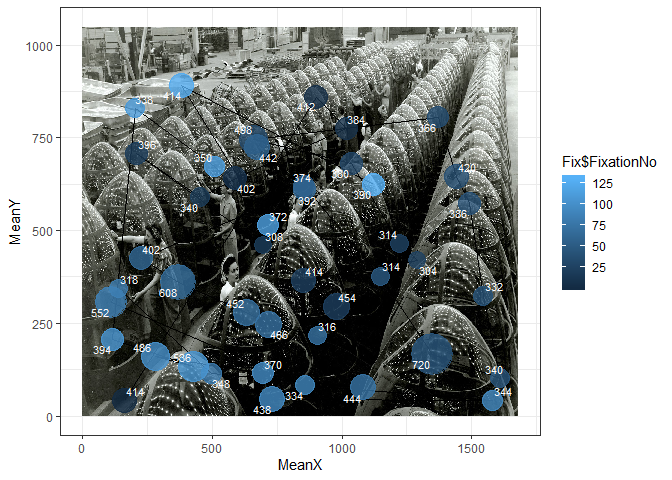
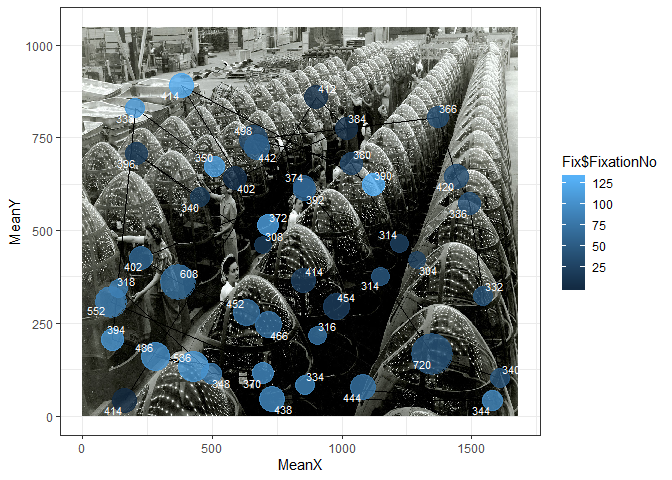
Final edits

diff --git a/Data_analysis.md b/Data_analysis.md
@@ -1,0 +1,290 @@
+``` r
+#Samples <- read_csv("Exported_EyeLink_data/Samples_merged.csv") %>% 
+ # mutate(GazeY = 1051-GazeY, Fix_MeanY = 1051-Fix_MeanY) %>% 
+  #filter(Time<=41202)
+
+Samples <- read_csv("Exported_EyeLink_data/Samples_merged.csv", col_types = cols(ParticipantID = col_character(), ParticipantGender = col_character(), EyeTracked = col_character(), Task = col_character(), SearchOrder = col_double(), ForagingType = col_character(), Trial = col_double(), Stimulus = col_character(), Video = col_character(), Time = col_double(), GazeX = col_double(), GazeY = col_double(), PupilSize = col_double(), FixationNo = col_double(), Fix_StartTime = col_double(), Fix_EndTime = col_double(), Fix_Duration = col_double(), Fix_MeanX = col_double(), Fix_MeanY = col_double(), Fix_MeanPupilSize = col_double(), SaccadeNo = col_double(), Sac_StartTime = col_double(), Sac_EndTime = col_double(), Sac_Duration = col_double(), Sac_StartX = col_double(), Sac_StartY = col_double(), Sac_EndX = col_double(), Sac_EndY = col_double(), Sac_PeakVelocity = col_double(), Sac_MeanVelocity = col_double(), Sac_Blink = col_logical(), Sac_Direction = col_character(), Sac_Amplitude = col_double()))
+```
+
+With gaussian we are undermining the tales. With the lognomial it’s not
+really better
+
+Conclusions: We tried to build a model that make conceptual sense. In
+which ways are the model failing us. We compared it with a gaussian
+model. Does it make sense to use a log model? We find that there are
+longer saccade amplitude. This means a specific amount of degrees. We
+looked at the general distributions of the data. 0.5% R2m variance is
+explained. If we know the participants then 2.7%. The model can capture
+the general difference between conditions but it fails as capturing the
+single saccades. Some are exploratoty and some exploit.
+
+Scan path
+
+``` r
+## Here I am making the scanpath for one participant in one trial
+x = subset(Samples, ParticipantID ==    'F7_2' & Trial == 10)
+
+## Let's make a summary dataset
+Fix <- x[!is.na(x$FixationNo),] %>% 
+  group_by(FixationNo) %>% # since I only have one participant and one trial
+  summarize(MeanX = Fix_MeanX[1], MeanY = Fix_MeanY[1], Duration = Fix_Duration[1]) %>% 
+  filter(Duration>=300) # only keep fixations > 300 ms because the other don't make sense cognitively
+
+img <- jpeg::readJPEG('stimuli_Foraging/space_capsules.jpg')  
+img <- grid::rasterGrob(img, width=unit(1, "npc"), height = unit(1,"npc"),
+                        interpolate = FALSE)
+ggplot(Fix, aes(MeanX, MeanY, color = Fix$FixationNo)) + 
+  annotation_custom(img, xmin = 0, xmax = 1680, ymin = 0, ymax = 1050) +
+  geom_path(color = "black") +
+  geom_point(size = Fix$Duration*.02, alpha = .8, fill = "NA") +
+  ggrepel::geom_text_repel(aes(label = Fix$Duration), size = 3, color = "white") +
+  xlim(0,1680) + ylim(0,1050)
+```
+
+![](Data_analysis_files/figure-markdown_github/unnamed-chunk-2-1.png)
+
+``` r
+#Social Engagement task
+#We will look for differences in pupil size in engagement vs. observatonal only stimuli
+
+## Subsetting the Social Engagement experiment
+x = subset(Samples, Task == "SocialEngagement", !is.na(PupilSize))
+#We take an average pupilsize for each fixation
+
+#We make the video column into multiple columns
+x <- separate(x, Video, c("Gender", NA, NA, "Orientation", "Ostensive"), remove = FALSE, sep = "_")
+
+#We now group by participants and 
+x <- x %>% group_by(Fix_MeanPupilSize, Trial, FixationNo, ParticipantID, Orientation, Ostensive, Gender) %>% 
+  summarize(PupilSize = mean(PupilSize))
+
+#We model
+model <- glmer(PupilSize ~ 1 +  Orientation * Ostensive +
+        (1 + Orientation * Ostensive | ParticipantID), data = x, family = gaussian(link=log))
+```
+
+    ## boundary (singular) fit: see ?isSingular
+
+``` r
+summary(model) #We use log because we believe it will reflect the data better. 
+```
+
+    ## Generalized linear mixed model fit by maximum likelihood (Laplace
+    ##   Approximation) [glmerMod]
+    ##  Family: gaussian  ( log )
+    ## Formula: PupilSize ~ 1 + Orientation * Ostensive + (1 + Orientation *  
+    ##     Ostensive | ParticipantID)
+    ##    Data: x
+    ## 
+    ##      AIC      BIC   logLik deviance df.resid 
+    ##   8748.0   8813.6  -4359.0   8718.0      572 
+    ## 
+    ## Scaled residuals: 
+    ##     Min      1Q  Median      3Q     Max 
+    ## -3.3555 -0.5137  0.1267  0.6528  2.4023 
+    ## 
+    ## Random effects:
+    ##  Groups        Name                       Variance Std.Dev. Corr             
+    ##  ParticipantID (Intercept)                  1662.7  40.776                   
+    ##                Orientationdiv                189.1  13.750  -0.46            
+    ##                Ostensive+o                    63.0   7.937  -0.38  0.38      
+    ##                Orientationdiv:Ostensive+o    166.3  12.895   0.30 -0.97 -0.20
+    ##  Residual                                 100691.9 317.320                   
+    ## Number of obs: 587, groups:  ParticipantID, 6
+    ## 
+    ## Fixed effects:
+    ##                             Estimate Std. Error t value Pr(>|z|)    
+    ## (Intercept)                 8.789286   0.052495 167.430   <2e-16 ***
+    ## Orientationdiv             -0.036199   0.017712  -2.044    0.041 *  
+    ## Ostensive+o                -0.006153   0.010913  -0.564    0.573    
+    ## Orientationdiv:Ostensive+o  0.012560   0.017854   0.704    0.482    
+    ## ---
+    ## Signif. codes:  0 '***' 0.001 '**' 0.01 '*' 0.05 '.' 0.1 ' ' 1
+    ## 
+    ## Correlation of Fixed Effects:
+    ##             (Intr) Ornttn Ostns+
+    ## Orientatndv -0.460              
+    ## Ostensive+o -0.363  0.370       
+    ## Ornttndv:O+  0.288 -0.917 -0.302
+    ## convergence code: 0
+    ## boundary (singular) fit: see ?isSingular
+
+``` r
+#Here we get no significant interaction so we model again without
+model <- glmer(PupilSize ~ 1 +  Orientation + Ostensive +
+        (1 + Orientation + Ostensive | ParticipantID), data = x, family = gaussian(link=log))
+summary(model)
+```
+
+    ## Generalized linear mixed model fit by maximum likelihood (Laplace
+    ##   Approximation) [glmerMod]
+    ##  Family: gaussian  ( log )
+    ## Formula: PupilSize ~ 1 + Orientation + Ostensive + (1 + Orientation +  
+    ##     Ostensive | ParticipantID)
+    ##    Data: x
+    ## 
+    ##      AIC      BIC   logLik deviance df.resid 
+    ##   8764.6   8808.4  -4372.3   8744.6      577 
+    ## 
+    ## Scaled residuals: 
+    ##     Min      1Q  Median      3Q     Max 
+    ## -3.6589 -0.5265  0.0936  0.6507  2.7538 
+    ## 
+    ## Random effects:
+    ##  Groups        Name           Variance  Std.Dev. Corr       
+    ##  ParticipantID (Intercept)      1643.03  40.534             
+    ##                Orientationdiv     65.45   8.090  -0.45      
+    ##                Ostensive+o        77.42   8.799  -0.15 -0.18
+    ##  Residual                     105952.03 325.503             
+    ## Number of obs: 587, groups:  ParticipantID, 6
+    ## 
+    ## Fixed effects:
+    ##                  Estimate Std. Error t value Pr(>|z|)    
+    ## (Intercept)     8.7860548  0.0508384 172.823  < 2e-16 ***
+    ## Orientationdiv -0.0300615  0.0101466  -2.963  0.00305 ** 
+    ## Ostensive+o    -0.0003226  0.0110354  -0.029  0.97668    
+    ## ---
+    ## Signif. codes:  0 '***' 0.001 '**' 0.01 '*' 0.05 '.' 0.1 ' ' 1
+    ## 
+    ## Correlation of Fixed Effects:
+    ##             (Intr) Ornttn
+    ## Orientatndv -0.450       
+    ## Ostensive+o -0.146 -0.176
+
+``` r
+x$Ostensive <- as.factor(x$Ostensive)
+x$Ostensive <- relevel(x$Ostensive, ref = "+o")
+
+model <- glmer(PupilSize ~ 1 +  Orientation + Ostensive +
+        (1 + Orientation + Ostensive | ParticipantID), data = x, family = gaussian(link=log))
+```
+
+    ## boundary (singular) fit: see ?isSingular
+
+``` r
+summary(model)
+```
+
+    ## Generalized linear mixed model fit by maximum likelihood (Laplace
+    ##   Approximation) [glmerMod]
+    ##  Family: gaussian  ( log )
+    ## Formula: PupilSize ~ 1 + Orientation + Ostensive + (1 + Orientation +  
+    ##     Ostensive | ParticipantID)
+    ##    Data: x
+    ## 
+    ##      AIC      BIC   logLik deviance df.resid 
+    ##   8714.6   8758.4  -4347.3   8694.6      577 
+    ## 
+    ## Scaled residuals: 
+    ##     Min      1Q  Median      3Q     Max 
+    ## -3.5736 -0.5922  0.0980  0.6413  2.7247 
+    ## 
+    ## Random effects:
+    ##  Groups        Name           Variance  Std.Dev. Corr       
+    ##  ParticipantID (Intercept)      4065.00  63.757             
+    ##                Orientationdiv     15.24   3.904  -0.41      
+    ##                Ostensive-o       814.28  28.536   0.81  0.20
+    ##  Residual                     110274.99 332.077             
+    ## Number of obs: 587, groups:  ParticipantID, 6
+    ## 
+    ## Fixed effects:
+    ##                 Estimate Std. Error t value Pr(>|z|)    
+    ## (Intercept)     8.831014   0.104753  84.303  < 2e-16 ***
+    ## Orientationdiv -0.032936   0.006971  -4.725  2.3e-06 ***
+    ## Ostensive-o     0.006929   0.044351   0.156    0.876    
+    ## ---
+    ## Signif. codes:  0 '***' 0.001 '**' 0.01 '*' 0.05 '.' 0.1 ' ' 1
+    ## 
+    ## Correlation of Fixed Effects:
+    ##             (Intr) Ornttn
+    ## Orientatndv -0.473       
+    ## Ostensive-o  0.877 -0.126
+    ## convergence code: 0
+    ## boundary (singular) fit: see ?isSingular
+
+``` r
+#We get a significant effect of the diverted orientation. When doing it with link = identity we do not get anything significant. 
+
+#We need to plot it
+ggplot(x, aes(FixationNo, PupilSize, color = Orientation)) + geom_smooth(method = "lm") + ggtitle("Average Pupil Size for all participants across fixations")
+```
+
+![](Data_analysis_files/figure-markdown_github/Analysis%20for%20Assignment%201%20Social%20Engagement-1.png)
+
+``` r
+#We plot with participant ID as well
+ggplot(x, aes(FixationNo, PupilSize, color = ParticipantID, fill = Orientation)) + geom_smooth(method = "lm", se = F, aes(linetype=Orientation)) + ggtitle("Pupil Size according to fixations in the direct and diverted condition")
+```
+
+![](Data_analysis_files/figure-markdown_github/Analysis%20for%20Assignment%201%20Social%20Engagement-2.png)
+
+``` r
+## Subsetting the Forarging experiment
+x = subset(Samples, Task == "Foraging", !is.na(SaccadeNo))
+
+x <- x %>% group_by(ParticipantID, Stimulus, ForagingType, SaccadeNo) %>% summarise(Saccade_Amplitude = mean(Sac_Amplitude, na.rm = TRUE))
+
+#We model
+sac_ampl_gaus <- glmer(Saccade_Amplitude ~ 1 + ForagingType + 
+        (1 + ForagingType | ParticipantID) +  
+        (1 + ForagingType | Stimulus), data = x, family = gaussian(link=log))
+```
+
+    ## boundary (singular) fit: see ?isSingular
+
+``` r
+summary(sac_ampl_gaus)
+```
+
+    ## Generalized linear mixed model fit by maximum likelihood (Laplace
+    ##   Approximation) [glmerMod]
+    ##  Family: gaussian  ( log )
+    ## Formula: 
+    ## Saccade_Amplitude ~ 1 + ForagingType + (1 + ForagingType | ParticipantID) +  
+    ##     (1 + ForagingType | Stimulus)
+    ##    Data: x
+    ## 
+    ##      AIC      BIC   logLik deviance df.resid 
+    ##  20434.4  20490.5 -10208.2  20416.4     3753 
+    ## 
+    ## Scaled residuals: 
+    ##     Min      1Q  Median      3Q     Max 
+    ## -1.5870 -0.6024 -0.3034  0.3149  6.2025 
+    ## 
+    ## Random effects:
+    ##  Groups        Name               Variance Std.Dev. Corr
+    ##  Stimulus      (Intercept)         0.0000  0.0000       
+    ##                ForagingTypeSearch  0.3844  0.6200    NaN
+    ##  ParticipantID (Intercept)         0.0000  0.0000       
+    ##                ForagingTypeSearch  0.1257  0.3545    NaN
+    ##  Residual                         13.0516  3.6127       
+    ## Number of obs: 3762, groups:  Stimulus, 10; ParticipantID, 6
+    ## 
+    ## Fixed effects:
+    ##                    Estimate Std. Error t value Pr(>|z|)    
+    ## (Intercept)         0.92669    0.03553  26.082  < 2e-16 ***
+    ## ForagingTypeSearch  0.53761    0.07907   6.799 1.05e-11 ***
+    ## ---
+    ## Signif. codes:  0 '***' 0.001 '**' 0.01 '*' 0.05 '.' 0.1 ' ' 1
+    ## 
+    ## Correlation of Fixed Effects:
+    ##             (Intr)
+    ## FrgngTypSrc -0.449
+    ## convergence code: 0
+    ## boundary (singular) fit: see ?isSingular
+
+``` r
+# We plot
+ggplot(x, aes(SaccadeNo, Saccade_Amplitude, color=ParticipantID))+
+  geom_smooth(aes(linetype=ForagingType), method="lm",se=F) + facet_wrap(.~Stimulus) +
+  ggtitle("Saccade amplitudes across saccades in the different stimuli for each participant")
+```
+
+![](Data_analysis_files/figure-markdown_github/Assignment%201%20Foraging%20experiment-1.png)
+
+``` r
+ggplot(x, aes(SaccadeNo, Saccade_Amplitude, color=ParticipantID))+
+  geom_smooth(aes(linetype=ForagingType), method="lm",se=F) + ggtitle("Saccade amplitude across saccades for the two different Foraging types")
+```
+
+![](Data_analysis_files/figure-markdown_github/Assignment%201%20Foraging%20experiment-2.png)
